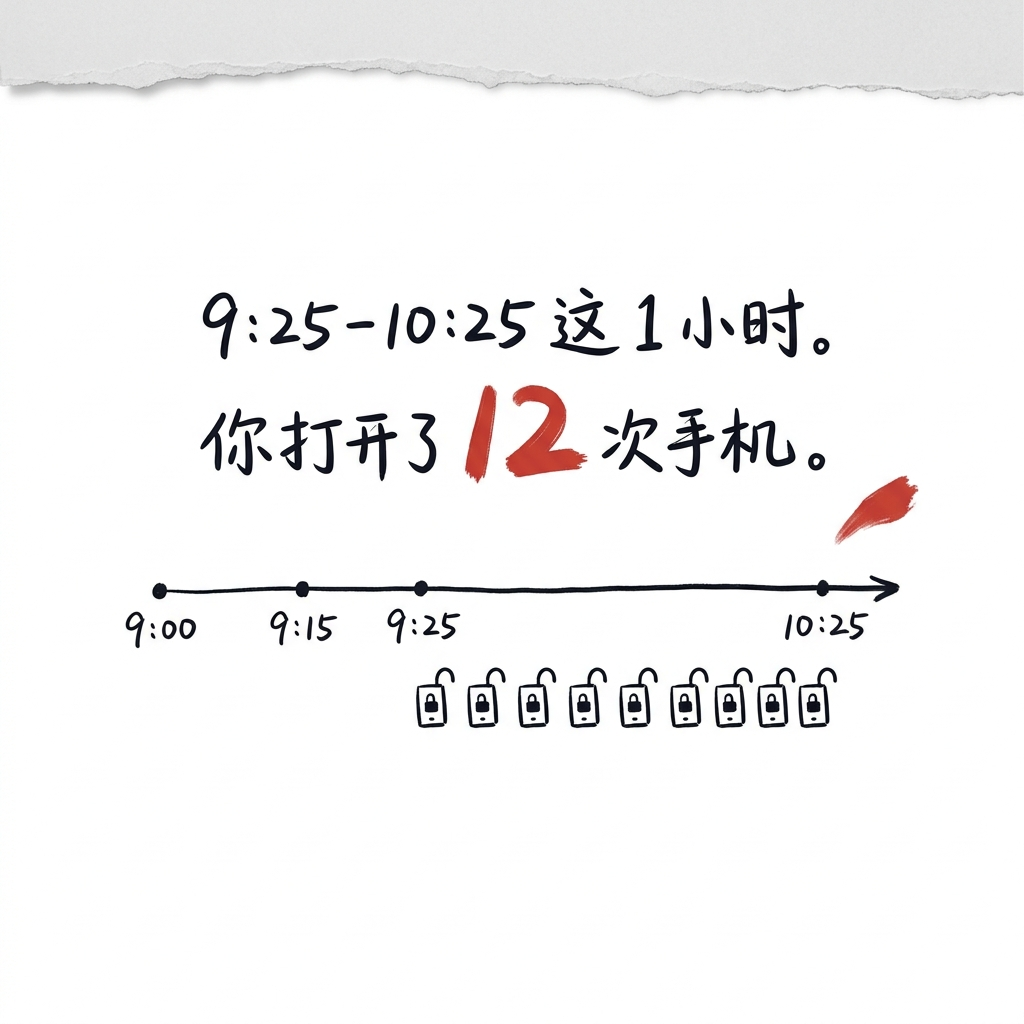
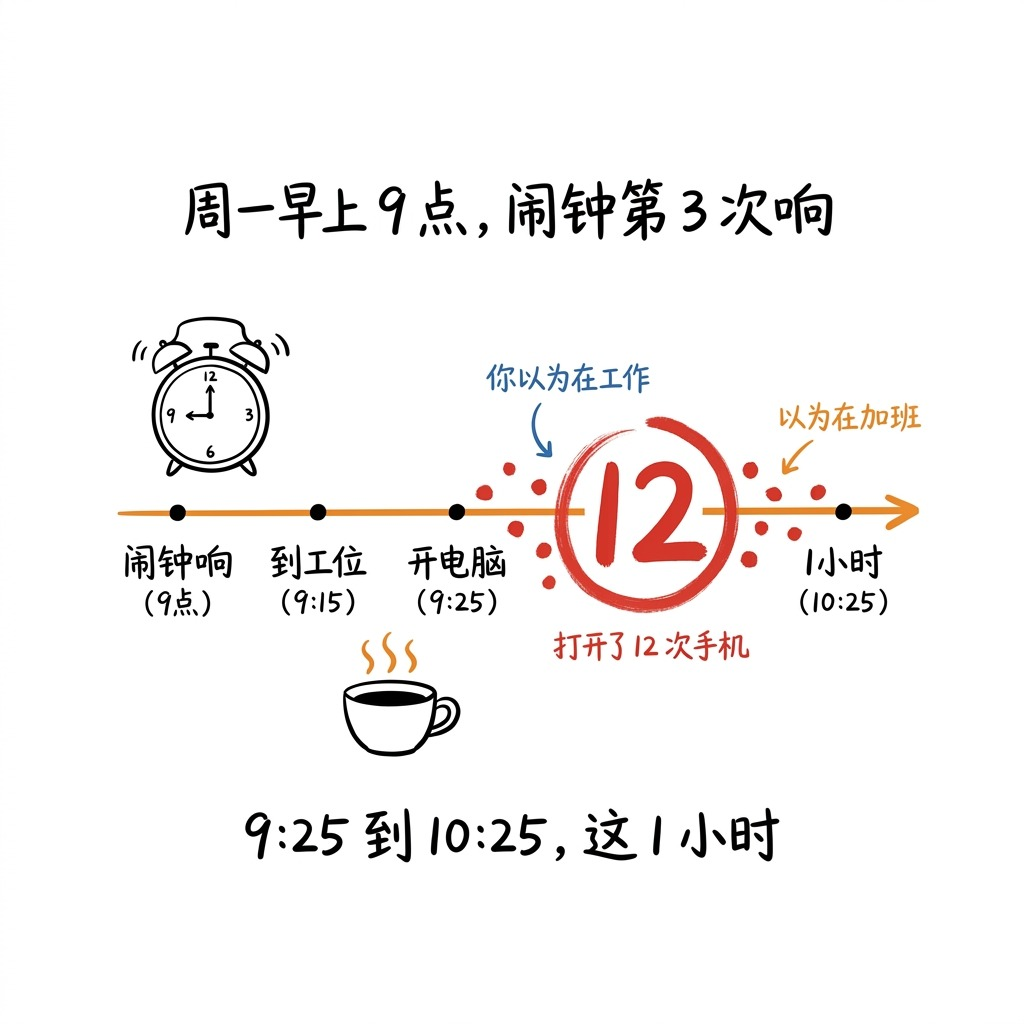
v2.8.7 抖音图文风格再校准: 对齐 fork 之前 Ian 风格 + warm-ink 4 色
用户 8/25 指令 (2 轮):
1. 看下 fork 项目之前的内容风格, 不要修改 IP 人物风格, 优化素材
2. 配色是我们自己的, 不必每张都出现 IP, 根据场景酌情

对比 fork 上游 Ian 8 张示例图 (01-two-breakpoints 到 08-trust-bridge):
- 纯白底 (无任何撕下边/米色/锯齿/装订孔装饰)
- 大量留白 (主体 40-60%)
- 详细手绘物件 (信息井/鱼开膛/压机/发酵罐/吊桥)
- 红色 brush 圈重点字/数字, 不是装饰飘着
- 中文手写 + 红色高亮 + 蓝色注解 + 橙色路径/箭头

005/006 10 张配图重做:
- 砍掉 v2.8.6 残留的顶部 1-2cm 撕下边装饰
- 4 色都用上 (墨/红/橙/蓝), 不是只黑+红+蓝
- 详细手绘物件 (分类柜/折线图/镜子/朋友圈网格/工位/4 手机/微信气泡/沙漏)
- 不硬塞 IP, 5 张里 1-3 张用 IP, 其余用手/手指/通用小人代表你

005 配图:
- 00: 手持手机 + 朋友圈 5x5 空网格 + 23/0 (no IP)
- 01: 3 抽屉分类柜 + 通用小人 + 19/4/0 (no IP)
- 02: 23→4 橙色折线图 + 小凡 IP
- 03: 微信头像 + 悬停手指 + 橙'取消屏蔽' 按钮 (no IP)
- 04: 镜子 + 23 红 X 小人 + 通用小人 + 橙'分类' 路径 (no IP)

006 配图:
- 00: 工位 + 电脑 + 手机 (0) + 小凡 IP
- 01: 橙时间线 + 12 红点 + 闹钟 + 咖啡 (no IP, 纯图解)
- 02: 4 手机屏幕 + 0 + 橙循环箭头 + 通用小人 (no IP)
- 03: 橙边框微信气泡 + 小凡秒回 + 橙 motion lines
- 04: 红 brush 圈'等' + 沙漏 (橙沙) + 小凡 IP

文档更新:
- doc/douyin/README.md: 风格段 v2.8.7 修正
- doc/douyin/DOUYIN-DRAFT-IDS.md: 风格段 + 同步历史加 v2.8.7
- doc/douyin/005-mute-23-friends/content.md: 配图说明 v2.8.7
- doc/douyin/006-fake-busy/content.md: 配图说明 v2.8.7
- brand/style-guide.md §10.3.1: v2.8.7 视觉规范铁律
- PROJECT-HISTORY.md: 加 v2.8.5/v2.8.6/v2.8.7 章节
- 10 张配图全部 JPEG 化 (微信/抖音 API 兼容)

diff --git a/PROJECT-HISTORY.md b/PROJECT-HISTORY.md
@@ -228,3 +228,84 @@
 - **不要主动提"做小红书/微博"**, 除非用户触发
 - 如果用户问"做小红书", 引用本节 + `AGENTS.md` 调性 + `style-guide §10` 抖音规范的延伸思路
 - 如果数据 (抖音 001 互动率/小红书搜索流量) 显示机会, 可以提出建议, 但不立 flag
+
+---
+
+### v2.8.5 (2026-08-25): 公众号 AI 战略三联 (020/021/022)
+
+- **020** 三家大厂一个季度烧 1200 亿 (阿里 800 亿配售 + 字节 4800 亿预算 + 腾讯 528 亿季度)
+- **021** OpenAI 旗舰再降 20% (1 个月 2 次降价, Vercel 28%→62% 开源份额, 中国下载 41% 首超美国)
+- **022** 4 天冲到全球第二 (Ox Alpha 牛来, DeepSWE 80% 超 Claude Fable 5 + GPT-5.6 Sol, 8/28 智谱 GLM-5.3 揭晓)
+- 4 件套结构: 数字链 + "你以为 X, 其实是 Y" 反转 + 强私密代入 + 强钩子
+- 收尾引用 015 形成四联 (015 海外战略 → 020 国内资本 → 021 全球价格战 → 022 匿名打法)
+- 3 篇全同步到公众号草稿箱, 4 张 16:9 配图各 4 张 (1 IP + 3 去 IP/篇)
+- commit: `3678f6c` (v2.8.5), 已 push
+
+### v2.8.6 (2026-08-25): 抖音 005/006 + 4 次风格调整链
+
+- 005 屏蔽朋友圈 23/0 (B 关系/数字社交, 跟 003 前任完全不同题材) — 003 的 4 件套结构
+- 006 工位 1 小时 12/0 (D 工作/时间扎心, 第一次试 D 方向)
+- **4 次风格调整链 (反例)**:
+  1. 第 1 版: 砍掉撕下草稿纸, 改纯白底 (方向对, 但"无文字"太空)
+  2. 第 2 版: 改回撕下草稿纸 (错!)
+  3. 第 3 版: 改回纯白底 + 黑色手写 + 红色高亮 (跟 020/021 同源)
+- 用户第 2 次纠正: "每张配图不是都需要文案吗" → 每张配图承载 1 段完整文案
+- commit: `c515b77` → `75ee354` → `4f07131`, 已 push
+
+### v2.8.7 (2026-08-25): 抖音图文风格再校准 (对齐 fork 之前 Ian 风格 + warm-ink 4 色)
+
+**用户 8/25 指令**:
+1. "看下我们 fork 项目之前的内容风格, 不要修改 IP 人物风格, 优化素材"
+2. "整体的配色还是需要是我们自己的, 不用每张都出现我们的人物, 根据创作的图文内容, 适当的在配图中增加人物信息, 没必要每张都有人物, 根据句子、上下文、场景等等, 酌情出现人物等"
+
+**对比 fork 上游 Ian 8 张示例图** (从 01-two-breakpoints 到 08-trust-bridge):
+- 纯白底, 没有撕下边/米色/锯齿/装订孔/阴影/渐变 (砍!)
+- 大量留白 (主体 40-60%)
+- 详细手绘物件 (信息井/鱼开膛/压机/发酵罐/吊桥 — "装置 + 批注" 风格)
+- 红色 brush 圈重点字/数字 (不是装饰飘着)
+- 中文手写清晰 + 红色高亮 + 蓝色注解 + 橙色路径/箭头
+
+**005/006 10 张配图重做 + 4 色调色**:
+- 005 00-cover: 手持手机 + 朋友圈 5x5 空网格 + 23/0 + 橙边框 (no IP, "你" 是手)
+- 005 01-classify: 3 抽屉分类柜 + 通用小人 + 19/4/0 + 橙把手 (no IP)
+- 005 02-scroll-decline: 23→4 橙色折线图 + 小凡 IP (出现)
+- 005 03-want-unmute: 微信头像 + 悬停手指 + 橙"取消屏蔽" 按钮 (no IP)
+- 005 04-punchline: 镜子 + 23 红 X 小人 + 通用小人 + 橙"分类" 路径 (no IP)
+- 006 00-cover: 工位 + 电脑 + 手机 (0) + 小凡 IP + 橙"0 条消息" (出现)
+- 006 01-timeline: 橙时间线 + 12 红点 + 闹钟 + 咖啡 (no IP, 纯图解)
+- 006 02-twelve-attempts: 4 手机屏幕 + 0 + 橙循环箭头 + 通用小人 (no IP)
+- 006 03-one-message: 橙边框微信气泡 + 小凡秒回 + 橙 motion lines (IP 出现)
+- 006 04-punchline: 红 brush 圈"等" + 沙漏 (橙沙) + 小凡 IP (出现)
+
+**4 色调色板 (warm-ink) 全部都用上**:
+- 墨 #1A1A1A — 主体线稿/小凡
+- 红 #C0392B — 重点批注/问题/结果 (brush 圈重点字/数字)
+- 橙 #E67E22 — 路径/箭头/动作/动态 (橙时间线/橙循环/橙边框/橙沙/橙 motion)
+- 蓝 #2C5F8D — 补充说明/系统状态 (蓝色注解配箭头)
+
+**IP 人物出现规则 (v2.8.7)**:
+- "你" 的第一人称视角 → 只画手/手指/通用小人 (stick figure), 不用小凡
+- 抽象"你" 的状态 → 通用小人 (stick figure)
+- 具体动作主体 (秒回/看屏幕/坐工位) → 用小凡 IP
+- 005: 5 张里 1 张有 IP (02)
+- 006: 5 张里 3 张有 IP (00/03/04), 2 张 no 人 (01/02)
+
+**历史反例 (留作反例, 不要再走)**: 4 次风格调整链 (v2.8.6 错误 → v2.8.7 修正)
+
+**v2.8.7 配图规格** (跟 fork 之前 Ian README 视觉铁律一致):
+- 纯白底 (no 任何装饰)
+- warm-ink 4 色都用
+- 图解型构图 (1 个核心动作/物体 + 周围批注)
+- 大量留白 (主体 40-60%)
+- 每张配图承载 1 段完整文案
+- 中文手写为主, 行业符号保留
+- 红色 brush 圈重点字/数字, 不是装饰飘着
+- 详细手绘物件 (跟 Ian 那种"装置 + 批注" 一致)
+
+**文档更新**:
+- `doc/douyin/README.md`: 风格段 v2.8.7 修正 (砍撕下边/4 色/酌情 IP)
+- `doc/douyin/DOUYIN-DRAFT-IDS.md`: 风格段 + 同步历史加 v2.8.7
+- `doc/douyin/005-mute-23-friends/content.md`: 配图说明 v2.8.7
+- `doc/douyin/006-fake-busy/content.md`: 配图说明 v2.8.7
+- `PROJECT-HISTORY.md`: 本节
+- 10 张配图全部 JPEG 化 (微信/抖音 API 兼容)

diff --git a/doc/douyin/README.md b/doc/douyin/README.md
@@ -62,9 +62,19 @@ tags:                 # 3-5 个话题标签
   - 7-9 张: 完整 (适合多步骤解释/案例对比/概念拆解)
   - 默认 4-6 张, 按主题增减
 - **风格**: xiaofan-ink 风格 (白底手绘/线条) + 心理学元素
-  - **v2.8.6 修正 (8/25)**: 抖音图文配图改成跟公众号 015/020/021 同款 — **纯白底 + 顶部轻微撕下边 (1-2cm 装饰) + 黑色手写完整段落 + 红色高亮 + 简洁插画 + 红色 brush stroke**
-  - 砍掉 003/004 的"撕下草稿纸" 整体框架 (米色 + 锯齿边 + 装订孔), 跟公众号配图同源
-  - 之前两次纠正都错 (v2.8.6 改纯白底没文字 → 改回撕下草稿纸 → 再次改回纯白底带文字)
+  - **v2.8.7 修正 (8/25)**: 抖音图文配图**对齐 fork 之前 Ian 风格 + 我们 warm-ink 4 色调色板**
+    - **纯白底** (无任何"撕下边/米色草稿纸/锯齿边/装订孔/阴影/渐变" 装饰 — 全砍)
+    - **warm-ink 4 色都用**: 墨 (#1A1A1A, 主体线稿/小凡) + 红 (#C0392B, 重点批注/问题/结果) + 橙 (#E67E22, 路径/箭头/动作/动态) + 蓝 (#2C5F8D, 补充说明/系统状态)
+    - **中文手写为主**, 行业符号保留, 不出现英文
+    - **图解型构图**: 1 个核心动作/物体 + 周围手写批注 + 红色高亮关键词 + 蓝色补充注解 + 橙色路径/箭头, 跟 Ian 的 8 张 fork 之前示例图同源 (信息井/一鱼多吃/想法压机/发酵罐/吊桥 那种"装置 + 批注" 风格)
+    - **大量留白** (主体只占 40-60%, 留白是设计的一部分)
+    - **每张配图承载 1 段完整文案** (1-2 句, 跟公众号 020/021 配图同源)
+    - **红色 brush stroke 圈重点字/数字** (不是装饰飘着, 跟 Ian 用 brush 当高亮一致)
+  - **v2.8.6 错误链 (留作反例)**: 改纯白底没文字 → 改回撕下草稿纸 → 再次改回纯白底带文字 → **v2.8.7 砍掉所有装饰** (跟 Ian fork 之前 README 视觉铁律一致: 纯白, 不要纸纹/米色/阴影/渐变)
+  - **IP 人物** (v2.8.7 修正): **不每张都画 IP**, 根据场景:
+    - "你" 的第一人称视角 → 只画手/手指/通用小人 (stick figure), 不用小凡
+    - 抽象"你" 的状态 (分类/循环) → 通用小人 (stick figure)
+    - 具体动作主体 (秒回/看屏幕/坐工位) → 用小凡 IP
 - **新流程前置**: 写每篇之前先列"配图说明表" (在 content.md 末尾), 标每张图的内容/风格/作用
 - **抖音配图全状态** (不画人物动作), 跟公众号"动作型→IP" 规则解耦
 - **每张配图配 1 个心理学插画元素** (v2.7.2 起, 不只是文字, 还要有 1 个概念图: 天平/账本/箭头/对话气泡/小剪影/问号)
@@ -124,19 +134,19 @@ tags:                 # 3-5 个话题标签
 - 03: 对话框分 2 段: "收到" 黑 + "其实我想哭" 红
 - 04: 对话框 "没事" + 红晕 (隐忍)
 
-**005 你屏蔽了 23 个人的朋友圈** (v2.8.6, 关系/数字社交类, 5 张, 新风格: 纯白底 + 黑线 + 红高亮):
-- 00: 大数字 23/0 + 1 个朋友圈头像剪影
-- 01: 标尺 + 数字链 19/4/0 (同事/亲戚/朋友)
-- 02: 折线图 23→4 + 手机剪影 (刷朋友圈次数下降)
-- 03: 倒计时 3 + "已屏蔽" 标签 + 1 个头像剪影
-- 04: 23 个剪影 + 红 X + "你以为在躲人, 你只是在分类" 金句
+**005 你屏蔽了 23 个人的朋友圈** (v2.8.7, 关系/数字社交类, 5 张, 图解型 + 4 色 warm-ink + 酌情出现 IP):
+- 00: 手持手机 + 朋友圈 5x5 空网格 (橙色边框) + 23/0 大字 (IP 不出现, "你" 是手)
+- 01: 3 抽屉分类柜 (19 同事/4 亲戚/0 朋友, 橙色把手) + 通用小人站旁边 (IP 不出现, 抽象"你")
+- 02: 23→4 橙色折线图 + 小凡站旁边 (IP 出现, "看自己数据" 主体)
+- 03: 微信头像 + "已屏蔽" 标签 + 悬停手指 + 橙色"取消屏蔽" 按钮 (IP 不出现, "你" 是手指)
+- 04: 镜子 + 23 个红 X 小人 (被分类) + 通用小人 (IP 不出现, 抽象"你") + 橙色"分类" 路径箭头
 
-**006 你在工位上坐了 1 小时** (v2.8.6, 工作/社畜类, 5 张, 新风格: 纯白底 + 黑线 + 红高亮):
-- 00: 大数字 12→0 + 工位剪影
-- 01: 时间线 9:00→9:15→9:25→10:25 + 12 个开屏图标
-- 02: 4 个手机屏幕 (微信/朋友圈/邮箱/短信) + 4 个 0
-- 03: 微信消息气泡 "在吗" + "1 秒回" 红色
-- 04: 1 个剪影 (红点) + "你不是在工作, 你是在等那 1 条让你活过来的消息" 金句
+**006 你在工位上坐了 1 小时** (v2.8.7, 工作/社畜类, 5 张, 图解型 + 4 色 warm-ink + 酌情出现 IP):
+- 00: 工位 + 电脑 + 手机 (0) + 小凡坐工位 + 红色 brush 圈"0" (IP 出现, 动作主体)
+- 01: 橙色时间线 9:00/9:15/9:25/10:25 + 12 红点 + 闹钟 + 咖啡 (IP 不出现, 纯图解)
+- 02: 4 个手机屏幕 (微信/朋友圈/邮箱/短信) + 0 + 橙色循环箭头 + 通用小人 (IP 不出现, 抽象"你")
+- 03: 橙色边框微信消息气泡 "在吗? 麻烦看下文件" + 小凡秒回 + 橙色 motion lines (IP 出现, "秒回" 主体)
+- 04: 红色 brush 圈"等" + 沙漏 (橙色沙) + 小凡坐工位等 (IP 出现, 状态主体)
 
 ### 备选池 (未用, 按主题挑)
 

diff --git a/doc/douyin/006-fake-busy/content.md b/doc/douyin/006-fake-busy/content.md
@@ -73,21 +73,39 @@ tags:
 
 ---
 
-# 配图说明 (跟公众号 020/021 配图同款风格)
+# 配图说明 (v2.8.7 风格再校准)
 
-> **风格 (v2.8.6 修正, 8/25)**: 抖音图文配图改成跟公众号 015/020/021 配图同款 — **纯白底 + 顶部轻微撕下边装饰 + 黑色手写完整段落 + 红色高亮 + 简洁插画 + 红色 brush stroke**。 砍掉 003/004 的"撕下草稿纸" 整体框架, 跟公众号同源。
+> **风格 (v2.8.7 修正, 8/25)**: 对齐 fork 之前 Ian 风格 + 我们 warm-ink 4 色调色板
+> - **纯白底** (无任何"撕下边/米色草稿纸/锯齿边/装订孔/阴影/渐变" 装饰 — 全砍)
+> - **warm-ink 4 色都用**: 墨 #1A1A1A / 红 #C0392B / 橙 #E67E22 / 蓝 #2C5F8D
+> - **图解型构图**: 1 个核心动作/物体 + 周围手写批注 + 红色高亮 + 蓝色注解 + 橙色路径/箭头
+> - **大量留白** (主体只占 40-60%, 留白是设计的一部分)
+> - **每张配图承载 1 段完整文案** (1-2 句)
+> - **不每张都画 IP**:
+>   - "你" 的第一人称视角 → 只画手/手指/通用小人 (stick figure), 不用小凡
+>   - 抽象"你" 的状态 → 通用小人 (stick figure)
+>   - 具体动作主体 → 用小凡 IP
+> - 跟 fork 上游 8 张示例图风格一致: 纯白, 详细手绘物件 (信息井/鱼开膛/压机/发酵罐/吊桥), 主体只占 40-60%
 
 | 文件 | 内容 | 风格 | 作用 |
 |---|---|---|---|
-| 00-cover.png | 标题 "1 小时 / 12 次 / 0 条", 12/0 大字红色, 1 个工位剪影 | 纯白底 + 黑色线条 + 红色高亮 + 1 元素 | 封面, 强钩子 |
-| 01-timeline.png | 9:00 → 9:15 → 9:25 → 10:25 时间轴 + 12 次开屏记录 | 纯白底 + 黑色线条 + 时间线元素 | 时间数字链 |
-| 02-twelve-attempts.png | 4 个手机屏幕并列, 微信 0 / 朋友圈 0 / 邮箱 0 / 短信 0 | 纯白底 + 黑色线条 + 多屏元素 | 12 次尝试 |
-| 03-one-message.png | 微信消息气泡 "在吗? " + "1 秒回" 红色 | 纯白底 + 黑色线条 + 消息气泡元素 | 1 条消息"活了" |
-| 04-punchline.png | 金句 "你不是在工作, 你是在等那 1 条让你活过来的消息" + 1 个剪影 | 纯白底 + 黑色线条 + 剪影 | 扎心收尾 |
+| 00-cover.png | 工位 + 电脑 + 手机 (0) + 小凡坐工位 + 红色 brush 圈"0" | 纯白底 + 黑线 + 红 brush 圈"0" + 橙"0 条消息" + 蓝注解 | 封面, 强钩子, 小凡 IP 出现 |
+| 01-timeline.png | 橙色时间线 9:00/9:15/9:25/10:25 + 12 红点 + 闹钟 + 咖啡 (橙蒸汽) | 纯白底 + 黑线 + 橙时间线 + 红 12 brush 圈 + 蓝注解"你以为在工作" + 橙"以为在加班" | 时间数字链, 纯图解 (no IP) |
+| 02-twelve-attempts.png | 4 个手机屏幕 (微信/朋友圈/邮箱/短信) + 0 + 橙色循环箭头 + 通用小人 | 纯白底 + 黑线 + 红 brush 圈"0" + 橙循环箭头 + 蓝注解 | 12 次尝试, 抽象"你" (no IP) |
+| 03-one-message.png | 橙色边框微信消息气泡 "在吗? 麻烦看下文件" + 小凡秒回 + 橙色 motion lines | 纯白底 + 黑线 + 橙边框气泡 + 红 brush 圈"1" + 蓝注解 | 1 条消息"活了", 小凡 IP 出现 |
+| 04-punchline.png | 红色 brush 圈"等" + 沙漏 (橙色沙) + 小凡坐工位等 | 纯白底 + 黑线 + 红 brush 圈"等" + 红"工作" + 橙沙漏 + 蓝注解 | 扎心收尾, 小凡 IP 出现 |
 
-**新插画元素 (跟 001-005 0 重复)**:
-- 大数字 (005 用过, 但 006 数字不同, OK)
-- 时间线 (备选池)
-- 多屏并列 (新)
-- 消息气泡 (003/004 用过, 但 006 是微信工作消息, 语境不同, OK)
-- 1 个剪影 (备选池)
+**v2.8.7 配图说明 (跟之前对比)**:
+- 砍掉顶部灰色撕下边 (跟 fork 之前 Ian 风格对齐)
+- 砍掉"撕下草稿纸" 整体框架 (米色 + 锯齿边 + 装订孔)
+- 4 色都用上, 不是只黑+红+蓝
+- 详细手绘物件 (工位/时间线/4 手机并列/微信气泡/沙漏) — 跟 Ian 那种"装置 + 批注" 一致
+- 不硬塞 IP: 5 张里 3 张有 IP (00/03/04), 2 张用"通用小人" 代表"你" (01/02), 0 张纯 no 人
+
+**插画元素 (跟 001-005 0 重复)**:
+- 工位 + 电脑 + 手机 (新)
+- 橙色时间线 + 12 红点 + 闹钟 + 咖啡 (新)
+- 4 个手机屏幕并列 (新)
+- 微信消息气泡 (003/004 用过, 但 006 是微信工作消息, 语境不同, OK)
+- 沙漏 (备选池, 但用法不同)
+- 全部 warm-ink 4 色调色, 不用 brush 当装饰飘着

diff --git a/doc/douyin/005-mute-23-friends/content.md b/doc/douyin/005-mute-23-friends/content.md
@@ -66,21 +66,39 @@ tags:
 
 ---
 
-# 配图说明 (跟公众号 020/021 配图同款风格)
+# 配图说明 (v2.8.7 风格再校准)
 
-> **风格 (v2.8.6 修正, 8/25)**: 抖音图文配图改成跟公众号 015/020/021 配图同款 — **纯白底 + 顶部轻微撕下边装饰 + 黑色手写完整段落 + 红色高亮 + 简洁插画 + 红色 brush stroke**。 砍掉 003/004 的"撕下草稿纸" 整体框架 (米色 + 锯齿边 + 装订孔), 跟公众号同源。
+> **风格 (v2.8.7 修正, 8/25)**: 对齐 fork 之前 Ian 风格 + 我们 warm-ink 4 色调色板
+> - **纯白底** (无任何"撕下边/米色草稿纸/锯齿边/装订孔/阴影/渐变" 装饰 — 全砍)
+> - **warm-ink 4 色都用**: 墨 #1A1A1A / 红 #C0392B / 橙 #E67E22 / 蓝 #2C5F8D
+> - **图解型构图**: 1 个核心动作/物体 + 周围手写批注 + 红色高亮 + 蓝色注解 + 橙色路径/箭头
+> - **大量留白** (主体只占 40-60%, 留白是设计的一部分)
+> - **每张配图承载 1 段完整文案** (1-2 句)
+> - **不每张都画 IP**:
+>   - "你" 的第一人称视角 → 只画手/手指/通用小人 (stick figure), 不用小凡
+>   - 抽象"你" 的状态 → 通用小人 (stick figure)
+>   - 具体动作主体 → 用小凡 IP
+> - 跟 fork 上游 8 张示例图风格一致: 纯白, 详细手绘物件 (信息井/鱼开膛/压机/发酵罐/吊桥), 主体只占 40-60%
 
 | 文件 | 内容 | 风格 | 作用 |
 |---|---|---|---|
-| 00-cover.png | 标题 "你屏蔽了 23 个人的朋友圈, 0 个是朋友", 23/0 大字红色, 1 个朋友圈剪影 | 纯白底 + 黑色线条 + 红色高亮 + 1 元素 | 封面, 强钩子 |
-| 01-classify.png | 数字 19/4/0 三个数字 + 同事/亲戚/朋友标签 | 纯白底 + 黑色线条 + 红色高亮 + 标尺元素 | 分类数字链 |
-| 02-scroll-decline.png | 23 → 4 折线图, 黑色 + 红色, 手机剪影 | 纯白底 + 黑色线条 + 折线图元素 | 刷朋友圈次数下降 |
-| 03-want-unmute.png | 微信头像 + "已屏蔽" 标签 + 3 秒倒计时 | 纯白底 + 黑色线条 + 倒计时元素 | 想加回前同事犹豫 |
-| 04-punchline.png | 金句 "你以为你在躲人, 你只是在分类" + 0 个朋友剪影 | 纯白底 + 黑色线条 + 多个剪影 | 扎心收尾 |
+| 00-cover.png | 手持手机 + 朋友圈 5x5 空网格 (橙色边框) + 23/0 大字 | 纯白底 + 黑线 + 红 brush 圈"23" + 橙边框 + 蓝注解"空的朋友圈" | 封面, 强钩子, "你" 是手 (no IP) |
+| 01-classify.png | 3 抽屉分类柜 (19 同事/4 亲戚/0 朋友) + 通用小人站旁边 | 纯白底 + 黑线 + 红 19/4/0 + 橙把手 + 蓝注解 | 分类数字链, 抽象"你" (no IP) |
+| 02-scroll-decline.png | 23→4 橙色折线图 + 小凡站旁边 | 纯白底 + 黑线 + 橙折线 + 红 23/4 + 蓝注解 | 刷朋友圈次数下降, 小凡 IP 出现 |
+| 03-want-unmute.png | 微信头像 + "已屏蔽" 标签 + 悬停手指 + 橙色"取消屏蔽" 按钮 | 纯白底 + 黑线 + 红 brush 下划线"犹豫了 3 秒" + 橙按钮 + 蓝注解 | 想加回前同事犹豫, "你" 是手指 (no IP) |
+| 04-punchline.png | 镜子 + 23 个红 X 小人 (被分类) + 通用小人 + 橙色"分类" 路径 | 纯白底 + 黑线 + 红 brush 圈"分类" + 橙路径箭头 + 蓝注解 | 扎心收尾, 抽象"你" (no IP) |
 
-**新插画元素 (跟 001-004 0 重复)**:
-- 大数字 (003 是删除按钮, 不同)
-- 标尺 (备选池)
-- 折线图 (备选池)
-- 倒计时 (备选池)
-- 多个剪影 (备选池)
+**v2.8.7 配图说明 (跟之前对比)**:
+- 砍掉顶部灰色撕下边 (跟 fork 之前 Ian 风格对齐)
+- 砍掉"撕下草稿纸" 整体框架 (米色 + 锯齿边 + 装订孔)
+- 4 色都用上, 不是只黑+红+蓝
+- 详细手绘物件 (分类柜/折线图/镜子/朋友圈网格) — 跟 Ian 那种"装置 + 批注" 一致
+- 不硬塞 IP: 5 张里 1 张有 IP (02), 4 张用"手/手指/通用小人" 代表"你"
+
+**插画元素 (跟 001-004 0 重复)**:
+- 朋友圈 5x5 网格 (新)
+- 分类抽屉柜 (新)
+- 折线图 (备选池, 但用法不同)
+- 微信头像 + "已屏蔽" 标签 (新)
+- 镜子 + 23 个红 X 小人 (新)
+- 全部 warm-ink 4 色调色, 不用 brush 当装饰飘着

diff --git a/doc/douyin/DOUYIN-DRAFT-IDS.md b/doc/douyin/DOUYIN-DRAFT-IDS.md
@@ -1,7 +1,7 @@
 # 抖音图文发布索引 (观心微语)
 
 > 抖音"观心微语" 账号的图文发布状态跟踪, 跟公众号 `doc/SERIES-DRAFT-IDS.md` 平行。
-> 更新: 2026-08-25 (v2.8.6 新风格 + 005/006 试 003 的 4 件套结构)
+> 更新: 2026-08-25 (v2.8.7 风格再校准: 砍掉"撕下边/草稿纸" 装饰 + 4 色 warm-ink + 酌情出现 IP, 跟 fork 之前 Ian 风格对齐)
 >
 > 抖音图文是**用户手动发布** (创作者服务中心 → 图文 → 上传图文), 没有 API 草稿 ID (抖音开放平台 API 接入待开发), 这里记发布日期 + 状态。
 
@@ -42,7 +42,18 @@
 - 私密: 屏蔽朋友圈 (005), 假装忙碌 (006)
 - 钩子: 强金句收尾
 
-**风格 (v2.8.6 修正, 8/25)**: 005/006 改成跟公众号 015/020/021 配图同款 — **纯白底 + 顶部轻微撕下边装饰 + 黑色手写完整段落 + 红色高亮 + 简洁插画 + 红色 brush stroke**。 砍掉 003/004 的"撕下草稿纸" 整体框架, 跟公众号配图同源。 之前两次纠正都错 (改纯白底无文字 → 改回撕下草稿纸 → 再次改回纯白底带文字), 用户原意是"按公众号配图那种风格"。
+**风格 (v2.8.7 修正, 8/25)**: 005/006 改成**对齐 fork 之前 Ian 风格 + 我们 warm-ink 4 色调色板**:
+- **纯白底** (无任何"撕下边/米色草稿纸/锯齿边/装订孔/阴影/渐变" 装饰 — 全砍)
+- **warm-ink 4 色都用**: 墨/红/橙/蓝
+- **图解型构图**: 1 个核心动作/物体 + 周围手写批注 + 红色高亮 + 蓝色注解 + 橙色路径/箭头
+- **大量留白** (主体只占 40-60%)
+- **每张配图承载 1 段完整文案** (1-2 句)
+- **不每张都画 IP**:
+  - "你" 的视角: 只画手/手指/通用小人
+  - 抽象"你" 的状态: 通用小人
+  - 具体动作主体: 小凡 IP
+- **历史 4 次风格调整链 (反例)**: 改纯白底没文字 → 改回撕下草稿纸 → 再次改回纯白底带文字 (顶部 1-2cm 撕下边) → **v2.8.7 砍掉所有装饰, 跟 Ian fork 之前 README 视觉铁律一致**
+- 跟 fork 上游 8 张示例图 (01-two-breakpoints 到 08-trust-bridge) 风格一致: 纯白, 详细手绘物件 (信息井/鱼开膛/压机/发酵罐/吊桥), 主体只占 40-60%
 
 ---
 
@@ -91,6 +102,7 @@
 | 2026-08-25 | 003/004 数据复盘 | 003 跑赢 10 倍, 真正洞察是"4 件套结构" 不是"前任题材" |
 | 2026-08-25 | 005 + 006 创建 (v2.8.6) | 用 003 结构 + 完全不同题材 (朋友圈屏蔽 / 工位假装忙碌) |
 | 2026-08-25 | 新风格调整 (v2.8.6) | 撕下草稿纸 → 纯白底 + 黑线 + 红高亮 (跟 IP reference 一致) |
+| 2026-08-25 | 风格再校准 (v2.8.7) | 砍掉顶部撕下边 + 4 色 warm-ink + 酌情出现 IP, 对齐 fork 之前 Ian 风格 (用户原话: "参考 fork 之前内容风格, 不要修改 IP 人物风格, 优化素材" + "配色是我们自己的, 不必每张都出现 IP") |
 
 ---
 

diff --git a/brand/style-guide.md b/brand/style-guide.md
@@ -270,6 +270,31 @@
 - 中文为主, 行业符号保留 (跟 §3.6 一样)
 - 衣着不画具体人物 (状态图, 不触发 §3.6 季节规则)
 
+#### 10.3.1 抖音图文视觉规范 v2.8.7 (8/25 风格再校准)
+
+> **跟 fork 之前 Ian 风格对齐 + warm-ink 4 色调色板** (用户 8/25 指令)
+>
+> **v2.8.7 铁律**:
+> 1. **纯白底** (no 任何"撕下边/米色草稿纸/锯齿边/装订孔/阴影/渐变" 装饰 — **全砍**)
+> 2. **warm-ink 4 色都用**: 墨 #1A1A1A (主体) / 红 #C0392B (重点批注/问题/结果) / 橙 #E67E22 (路径/箭头/动作/动态) / 蓝 #2C5F8D (补充说明/系统状态)
+> 3. **图解型构图**: 1 个核心动作/物体 + 周围手写批注 + 红色高亮 + 蓝色注解 + 橙色路径/箭头
+> 4. **大量留白** (主体只占 40-60%, 留白是设计的一部分)
+> 5. **每张配图承载 1 段完整文案** (1-2 句, 跟公众号 020/021 配图同源)
+> 6. **红色 brush 圈重点字/数字** (不是装饰飘着, 跟 Ian 用 brush 当高亮一致)
+> 7. **不每张都画 IP**:
+>    - "你" 的第一人称视角 → 只画手/手指/通用小人 (stick figure), 不用小凡
+>    - 抽象"你" 的状态 → 通用小人 (stick figure)
+>    - 具体动作主体 (秒回/看屏幕/坐工位) → 用小凡 IP
+>
+> **跟 fork 上游 Ian 8 张示例图风格一致** (01-two-breakpoints 到 08-trust-bridge):
+> 纯白底 + 详细手绘物件 (信息井/鱼开膛/压机/发酵罐/吊桥) + 主体 40-60% 留白 + 中文手写 + 红高亮 + 蓝注解 + 橙路径
+>
+> **历史反例 (v2.8.6 错误链, 不要再走)**:
+> 1. 第 1 版: 砍撕下草稿纸, 改纯白底 (方向对, 但"无文字"太空)
+> 2. 第 2 版: 改回撕下草稿纸 (错!)
+> 3. 第 3 版: 改回纯白底 + 顶部 1-2cm 撕下边装饰 (跟 Ian 不符)
+> 4. **v2.8.7 修正: 砍掉所有装饰, 跟 Ian README 视觉铁律一致**
+
 ### 10.4 文案规则
 
 - **≤ 300 字** (抖音图文限制)
